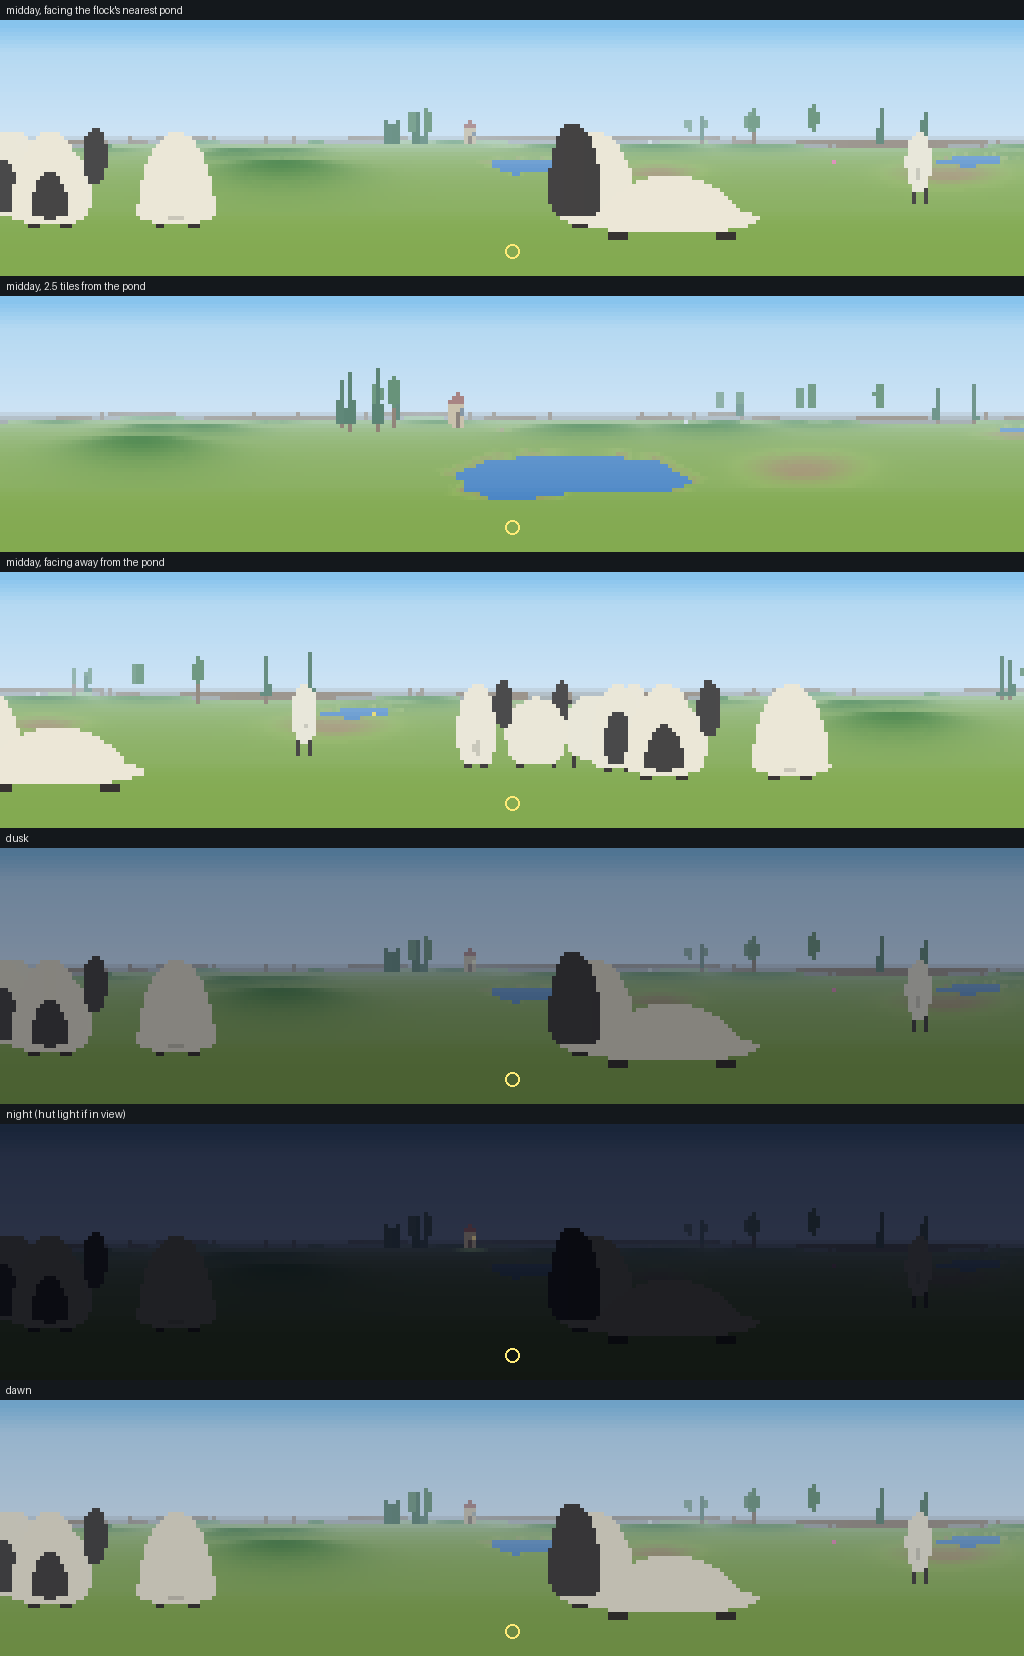
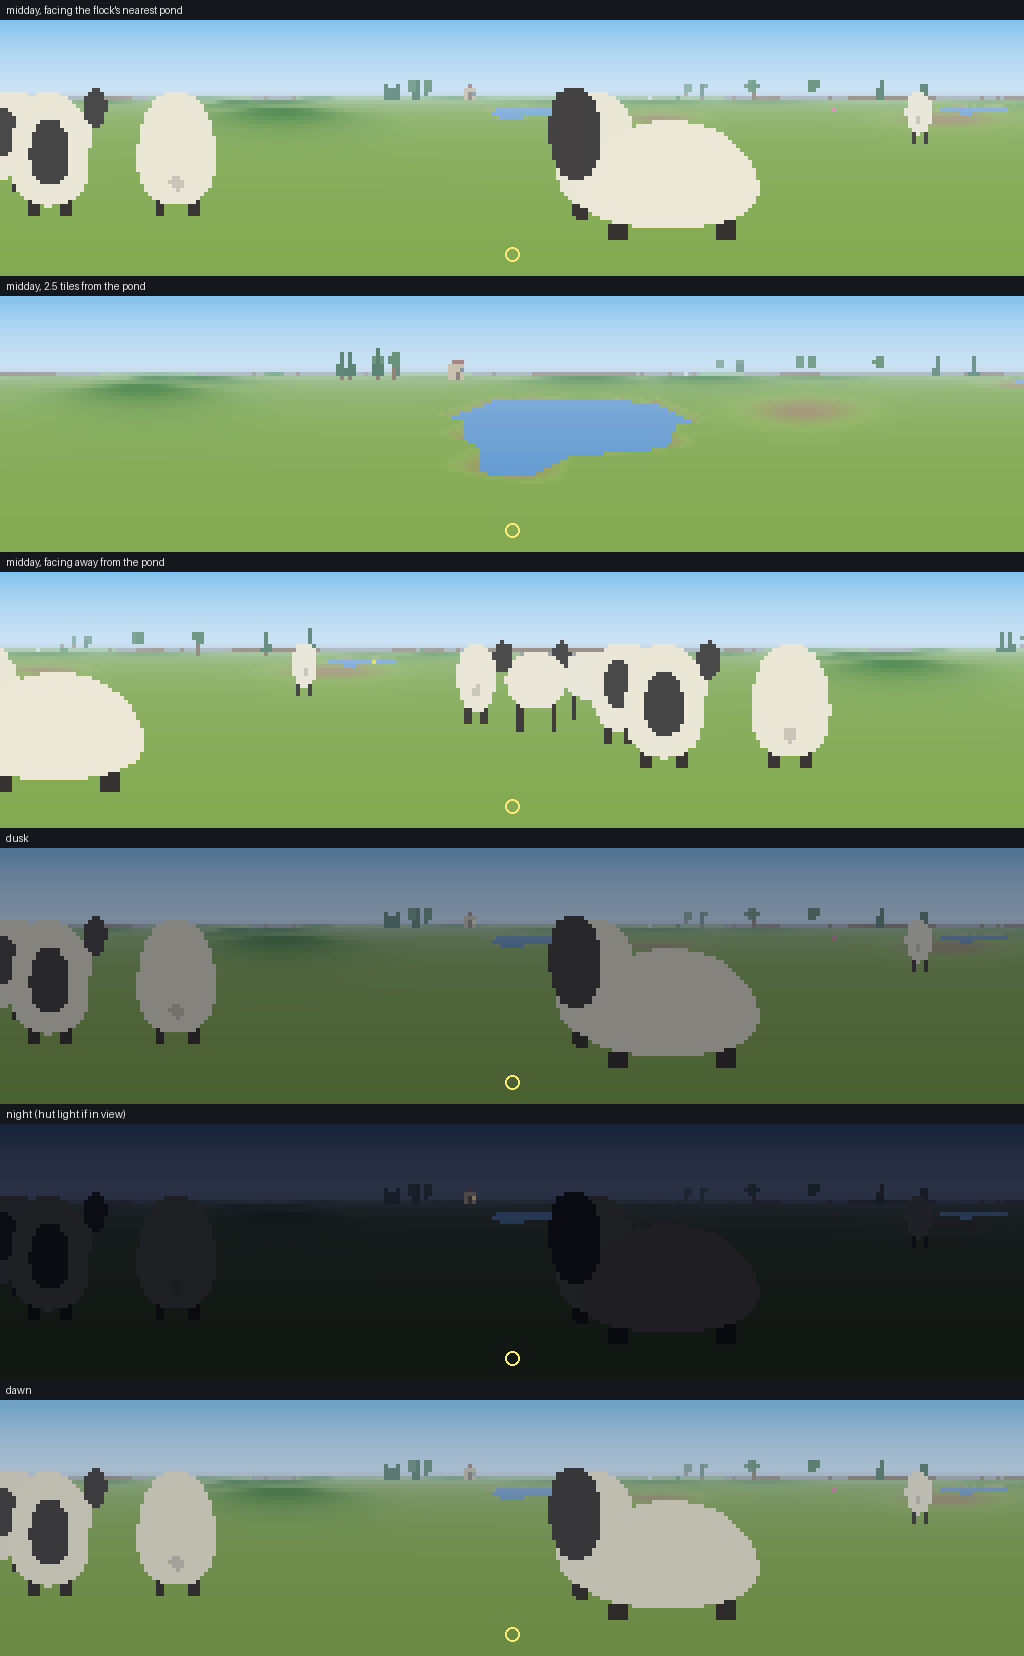
Water reflects the sky at night (owner); world-model loss options (KL weight, multi-step prediction); longer replay; screening arms N0/N1/S1 pre-registered

diff --git a/scripts/m2_hybrid.py b/scripts/m2_hybrid.py
@@ -25,6 +25,10 @@ Checkpoints ``wm.pkl``, ``policy.pkl`` and ``config.json``; scored by ``m2_eval.
 embedding as well as (h, z), with the gradient stopped, so PPO does not train the encoder. The
 embedding is the sheep's own eyes, not privileged information.
 
+``--kl_dyn`` and ``--ms_weight`` set the world model's loss (``flock.wm.Config``); ``--add_frac`` adds
+only a random share of each iteration's sequences to the replay, so a replay of a given size covers
+a longer history.
+
 ``--model spatial`` uses rung 3's world model (``flock.wm_spatial``: a grid-shaped state, all of it
 learned) instead of the RSSM's single vector (``--model vector``, the default).
 """
@@ -62,10 +66,12 @@ _ppo2 = _load("m2_ppo")
 CFG = wm.Config(n_classes=3, rgb=True, n_actions=sim.N_ACTIONS, body_dims=())
 
 
-def make_world(seed, kind="vector"):
+def make_world(seed, kind="vector", kl_dyn=wm.KL_DYN, ms_weight=0.0):
+    """The world model. ``kl_dyn`` and ``ms_weight`` change only the loss, not the parameters, so a
+    checkpoint loads into a model made with the defaults."""
     if kind == "spatial":
-        return wm_spatial.SpatialWorldModel(nnx.Rngs(seed), n_intero=D.N_FELT, cfg=wm_spatial.SpatialConfig(n_actions=sim.N_ACTIONS))
-    return wm.WorldModel(nnx.Rngs(seed), n_intero=D.N_FELT, reward=True, cfg=CFG)
+        return wm_spatial.SpatialWorldModel(nnx.Rngs(seed), n_intero=D.N_FELT, cfg=wm_spatial.SpatialConfig(n_actions=sim.N_ACTIONS, kl_dyn=kl_dyn, ms_weight=ms_weight))
+    return wm.WorldModel(nnx.Rngs(seed), n_intero=D.N_FELT, reward=True, cfg=CFG._replace(kl_dyn=kl_dyn, ms_weight=ms_weight))
 
 
 def make_policy(seed, hidden=256, n_in=CFG.feat):
@@ -198,13 +204,16 @@ def main():
     p.add_argument("--reset_every", type=int, default=2 * DAY)
     p.add_argument("--model", choices=("vector", "spatial"), default="vector")
     p.add_argument("--policy_input", choices=("state", "state_embed"), default="state")
+    p.add_argument("--kl_dyn", type=float, default=wm.KL_DYN, help="dynamics KL weight (DreamerV3: 1)")
+    p.add_argument("--ms_weight", type=float, default=0.0, help="multi-step view prediction weight (0: off)")
+    p.add_argument("--add_frac", type=float, default=1.0, help="share of each iteration's sequences added to the replay")
     p.add_argument("--seed", type=int, default=0)
     a = p.parse_args()
     assert a.steps % a.length == 0 and a.reset_every % a.steps == 0
     os.makedirs(a.out, exist_ok=True)
     json.dump({**vars(a), "kind": "m2_hybrid"}, open(os.path.join(a.out, "config.json"), "w"), indent=1)
 
-    world = make_world(a.seed, a.model)
+    world = make_world(a.seed, a.model, a.kl_dyn, a.ms_weight)
     wm_opt = nnx.Optimizer(world, optax.chain(optax.clip_by_global_norm(1000.0), optax.adam(1e-4, eps=1e-8)), wrt=nnx.Param)
     use_embed = a.policy_input == "state_embed"
     policy = make_policy(a.seed + 1, a.hidden, n_policy_in(world, use_embed))
@@ -230,7 +239,7 @@ def main():
         # world-model replay: recorded sheep, cut into sequences, kept if alive throughout
         T, L = a.steps, a.length
         cut = lambda x: x[:, :, : a.record].transpose((1, 2, 0) + tuple(range(3, x.ndim))).reshape((-1, T // L, L) + x.shape[3:]).reshape((-1, L) + x.shape[3:])
-        alive_seq = cut(tr["alive_before"]).all(-1)
+        alive_seq = cut(tr["alive_before"]).all(-1) & (rng.random(cut(tr["alive_before"]).shape[0]) < a.add_frac)
         if alive_seq.any():
             replay.add(cut(tr["views"])[alive_seq], cut(tr["act"])[alive_seq], cut(tr["feel"])[alive_seq], cut(tr["reward"])[alive_seq])
         t_b = time.time()
@@ -282,7 +291,7 @@ def main():
         log.write(json.dumps(rec) + "\n")
         log.flush()
         if it % 10 == 0 or it == 1:
-            print(json.dumps({k2: rec.get(k2) for k2 in ("iter", "t", "reward", "alive_share", "deaths", "levels", "fat", "bad_taste", "ppo_entropy", "wm_recon", "wm_pixel_acc", "wm_reward_ce", "t_collect", "t_train")}), flush=True)
+            print(json.dumps({k2: rec.get(k2) for k2 in ("iter", "t", "reward", "alive_share", "deaths", "levels", "fat", "bad_taste", "ppo_entropy", "wm_recon", "wm_multistep", "wm_pixel_acc", "wm_reward_ce", "t_collect", "t_train")}), flush=True)
         if it % 25 == 0 or it == a.iters:
             pickle.dump(jax.tree.map(np.asarray, nnx.to_pure_dict(nnx.state(world))), open(os.path.join(a.out, "wm.pkl"), "wb"))
             pickle.dump(jax.tree.map(np.asarray, nnx.to_pure_dict(nnx.state(policy))), open(os.path.join(a.out, "policy.pkl"), "wb"))

diff --git a/flock/wm.py b/flock/wm.py
@@ -95,6 +95,10 @@ class Config(NamedTuple):
     recon_balance: float = 0.0  # >0: weight each pixel by its class's inverse frequency in the batch, capped at this (third review, S5)
     rgb: bool = False  # meadow v2: views are (h, w, 3) uint8 colour, not class indices; n_classes must be 3, and
     # the strip is reconstructed by summed squared error on colour in [0, 1] (as DreamerV3 does for images)
+    kl_dyn: float = KL_DYN  # weight of the dynamics KL; 0.5 here historically; DreamerV3 uses 1 (plan review, 2026-10-26)
+    ms_weight: float = 0.0  # >0 (RGB only): multi-step prediction; from starts every ms_stride steps, the prior is rolled
+    ms_horizons: tuple = (2, 4, 8)  # forward with the actions taken and the view is decoded at these horizons and
+    ms_stride: int = 8  # compared with the real one (summed squared error, averaged), weighted by ms_weight
 
     @property
     def feat(self) -> int:
@@ -356,7 +360,12 @@ def loss_fn(model: WorldModel, views: jax.Array, actions: jax.Array, key: jax.Ar
         err = jnp.sum((logits + 0.5 - target) ** 2, -1)  # the decoder predicts colour centred on 0
         recon = jnp.mean(jnp.sum(err, axis=(-2, -1)))
         acc = jnp.mean(jnp.abs(logits + 0.5 - target))  # reported as "pixel_acc": here the mean absolute colour error
-        return _rest(model, s, recon, acc, actions, intero, reward)
+        loss, aux = _rest(model, s, recon, acc, actions, intero, reward)
+        if getattr(model.cfg, "ms_weight", 0.0) > 0:
+            ms = _multistep(model, s, views, actions, jax.random.fold_in(key, 1))
+            loss = loss + model.cfg.ms_weight * ms
+            aux = {**aux, "multistep": ms, "loss": loss}
+        return loss, aux
     ce = -jnp.take_along_axis(jax.nn.log_softmax(logits, -1), views[..., None], -1)[..., 0]
     if model.cfg.recon_balance > 0:
         # class-balanced reconstruction: rare classes (water) count as much as common ones (sky),
@@ -371,12 +380,34 @@ def loss_fn(model: WorldModel, views: jax.Array, actions: jax.Array, key: jax.Ar
     return _rest(model, s, recon, acc, actions, intero, reward)
 
 
+def _multistep(model, s, views, actions, key):
+    """Open-loop prediction of the view: from the posterior at each start, roll the prior forward
+    with the actions taken, decode at each horizon, and compare with the real view (summed squared
+    colour error per frame, averaged over starts and horizons)."""
+    c = model.cfg
+    T = views.shape[1]
+    H = max(c.ms_horizons)
+    starts = list(range(0, T - H, c.ms_stride))
+    target = views.astype(jnp.float32) / 255.0
+    errs = []
+    for i, t0 in enumerate(starts):
+        h, z = s.h[:, t0], s.z[:, t0]
+        k = jax.random.fold_in(key, i)
+        for step in range(1, H + 1):
+            h = model.transition(h, z, jax.nn.one_hot(actions[:, t0 + step - 1], c.n_actions))
+            z = _sample(model.prior(h), jax.random.fold_in(k, step))
+            if step in c.ms_horizons:
+                pred = model.decode(Step(h, z, None, None))
+                errs.append(jnp.mean(jnp.sum((pred + 0.5 - target[:, t0 + step]) ** 2, axis=(-3, -2, -1))))
+    return jnp.mean(jnp.stack(errs))
+
+
 def _rest(model, s, recon, acc, actions, intero, reward):
     """The losses after reconstruction: KL, felt numbers, reward, ensemble."""
     sg = jax.lax.stop_gradient
     dyn = jnp.mean(jnp.maximum(kl(sg(s.post), s.prior), FREE_NATS))
     rep = jnp.mean(jnp.maximum(kl(s.post, sg(s.prior)), FREE_NATS))
-    loss = model.cfg.recon_weight * recon + KL_DYN * dyn + KL_REP * rep
+    loss = model.cfg.recon_weight * recon + getattr(model.cfg, "kl_dyn", KL_DYN) * dyn + KL_REP * rep
     aux = {"recon": recon, "kl_dyn": dyn, "kl_rep": rep, "pixel_acc": acc}
     if model.intero_head is not None:
         err = jnp.mean(jnp.sum((model.decode_intero(s) - intero) ** 2, -1))

diff --git a/flock/meadow2/render.py b/flock/meadow2/render.py
@@ -19,6 +19,8 @@ tiles away 6.6 (was 1.7), and the sky 18 rows (was 28).
   hidden by anything nearer, grass included. A sheep is drawn from the side (head toward where it
   is going), from the front or from the back, by how it moves relative to the line of sight.
   Dead sheep are not drawn.
+- **Water reflects the sky** (``REFLECT``) and is never lit below ``WATER_FLOOR`` of its day
+  brightness, so ponds stay visible at night (owner, 2026-10-26).
 - **Light.** Every colour is scaled by the light level (``sim.light``), with a slight blue cast at
   night. Within ``HUT_LIGHT_R`` tiles of the hut, the light is at least ``HUT_LIGHT``, and its
   window glows at night.
@@ -45,6 +47,10 @@ HAZE = 30.0
 K = 192
 DISTS = jnp.asarray(0.15 * (90.0 / 0.15) ** (np.arange(K) / (K - 1)), jnp.float32)
 HUT_LIGHT, HUT_LIGHT_R = 0.6, 3.0
+# water reflects the sky (owner, 2026-10-26: at night it was ~70x lower in contrast and the world
+# model lost it): a water pixel mixes in REFLECT of the sky at the mirrored elevation, and is never
+# lit below WATER_FLOOR of its day brightness, like a pond catching the last light
+REFLECT, WATER_FLOOR = 0.3, 0.45
 FENCE_H, POST_H, POST_EVERY = 0.4, 0.5, 2.0
 
 
@@ -264,13 +270,17 @@ def render_aux(state: State, i: jax.Array):
     hut = m.obj_present & (m.obj_kind == HUT)
     d_hut = jnp.min(jnp.where(hut[None, None, :], jnp.linalg.norm(gpos[:, :, None, :] - m.obj_pos[None, None], axis=-1), jnp.inf), -1)
     lit = jnp.maximum(L, HUT_LIGHT * jnp.clip(1.0 - d_hut / HUT_LIGHT_R, 0.0, 1.0))
+    water_vis = hit & wet_px & ~fence & ~front
+    mirror = sky(-ROW_ELEV, jnp.maximum(L, WATER_FLOOR))[:, None, :]  # (H, 1, 3): the sky seen in the water
+    colour = jnp.where(water_vis[..., None], (1 - REFLECT) * colour + REFLECT * mirror, colour)
+    lit = jnp.where(water_vis, jnp.maximum(lit, WATER_FLOOR), lit)
     colour = jnp.where(glow_px[..., None], colour, colour * lit[..., None] + (1.0 - L) * NIGHT_CAST)
     horizon = sky(jnp.zeros(()), L)
     fade = 1.0 - jnp.exp(-jnp.where(jnp.isfinite(depth), depth, 1e3) / HAZE)
     colour = colour + (horizon - colour) * fade[..., None]
     above = ~jnp.isfinite(depth)
     colour = jnp.where(above[..., None], sky(ROW_ELEV, L)[:, None, :], colour)
-    water_px = hit & wet_px & ~fence & ~front
+    water_px = water_vis
     return jnp.clip(colour, 0.0, 1.0), water_px, depth
 
 

diff --git a/flock/wm_spatial.py b/flock/wm_spatial.py
@@ -60,6 +60,10 @@ class SpatialConfig(NamedTuple):
     reward_weight: float = wm.REWARD_WEIGHT
     recon_balance: float = 0.0
     body_dims: tuple = ()
+    kl_dyn: float = wm.KL_DYN
+    ms_weight: float = 0.0
+    ms_horizons: tuple = (2, 4, 8)
+    ms_stride: int = 8
 
     @property
     def n_cells(self) -> int:

diff --git a/docs/flock-2/m1-world-v2-spec.md b/docs/flock-2/m1-world-v2-spec.md
@@ -715,3 +715,31 @@ boundary for the 2,000-iteration one. The arm's gain points the same way.
   problem (the loss, and the night-water world fact), even though the rule's threshold, set within
   8 tiles, did not trigger it.
 - **No memory once out of view.**
+
+## 16. Branch B's fixes and the loss fixes: screening (pre-registered 2026-10-26)
+
+**World change (owner, 2026-10-26):** water reflects the sky. A water pixel mixes in 30 % of the
+sky at the mirrored elevation, and is never lit below 45 % of its day brightness, so ponds stay
+visible at night (`render.REFLECT`, `WATER_FLOOR`). Night contrast had been about 70× lower than
+by day, and the models barely redrew water at night. This changes the world, so every
+vision-based result after it is on the new rendering. Scripted and privileged-PPO results are
+unaffected: they do not use the view.
+
+**Arms** (seed 0, 600 iterations, `m2_hybrid.py`; the policy reads (h, z) only, since the probe is
+about the state):
+
+| Arm | World model | Loss | Replay |
+| --- | --- | --- | --- |
+| **N0**, the new baseline | vector RSSM | dynamics KL weight 1 (DreamerV3's), was 0.5 | 2,048 sequences; half of each iteration's added, about 64 iterations of history (was 1,024, all added, 16) |
+| **N1** | vector RSSM | as N0, plus multi-step prediction (weight 1; horizons 2, 4, 8; starts every 8 steps) | as N0 |
+| **S1** | rung 3, spatial (`flock/wm_spatial.py`) | as N1 | as N0 |
+
+Each is evaluated (`m2_eval.py`) and diagnosed (`m2_diag.py`).
+
+**Screening rule** (written before the runs):
+- A fix is **kept** if, against N0, it raises the ridge R² for water bearing from h and z (visible
+  by day within 8 tiles) by at least 0.1, **or** brings the bearing just after water leaves view
+  (D3, the better of sine and cosine) to at least 0.3.
+- The arm that does best on those, if any is kept, goes to three seeds.
+- The week's criterion (§ 15) stays the target. Evaluation scores are reported but do not decide
+  the screening, which is about what the state holds.
